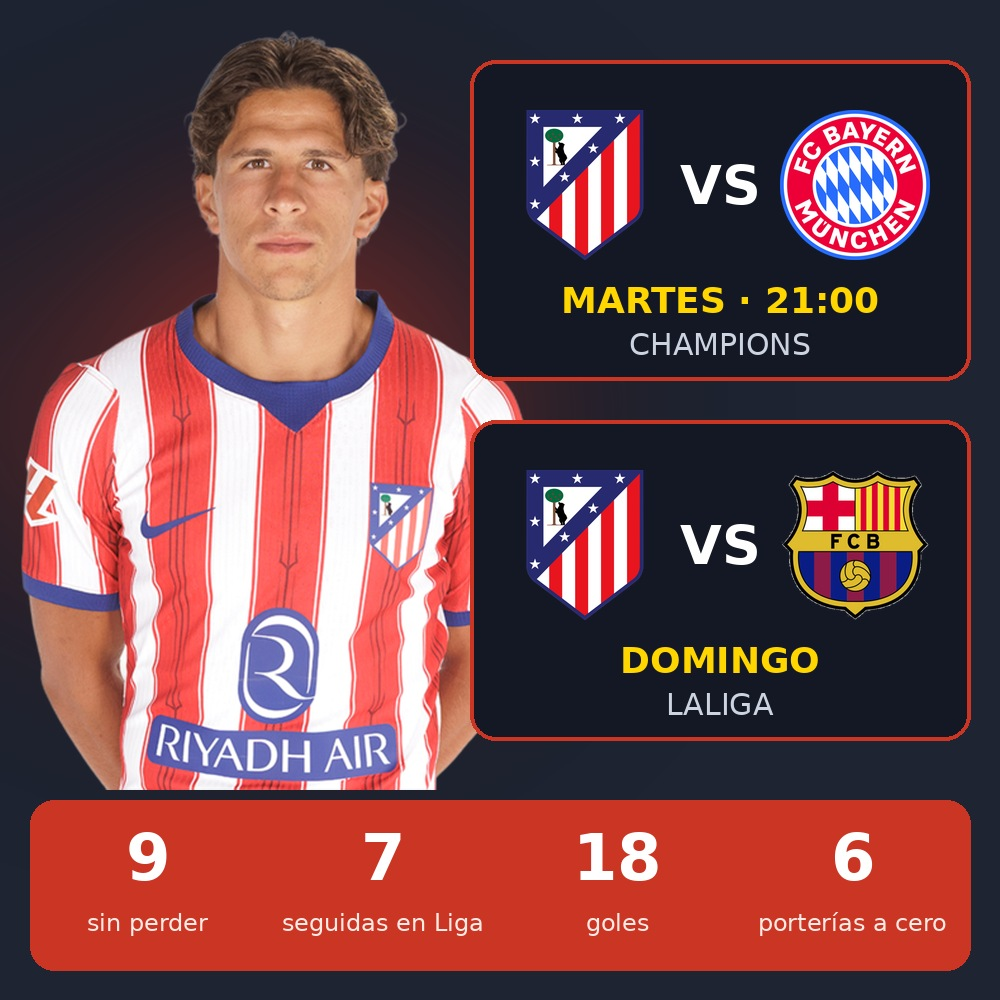
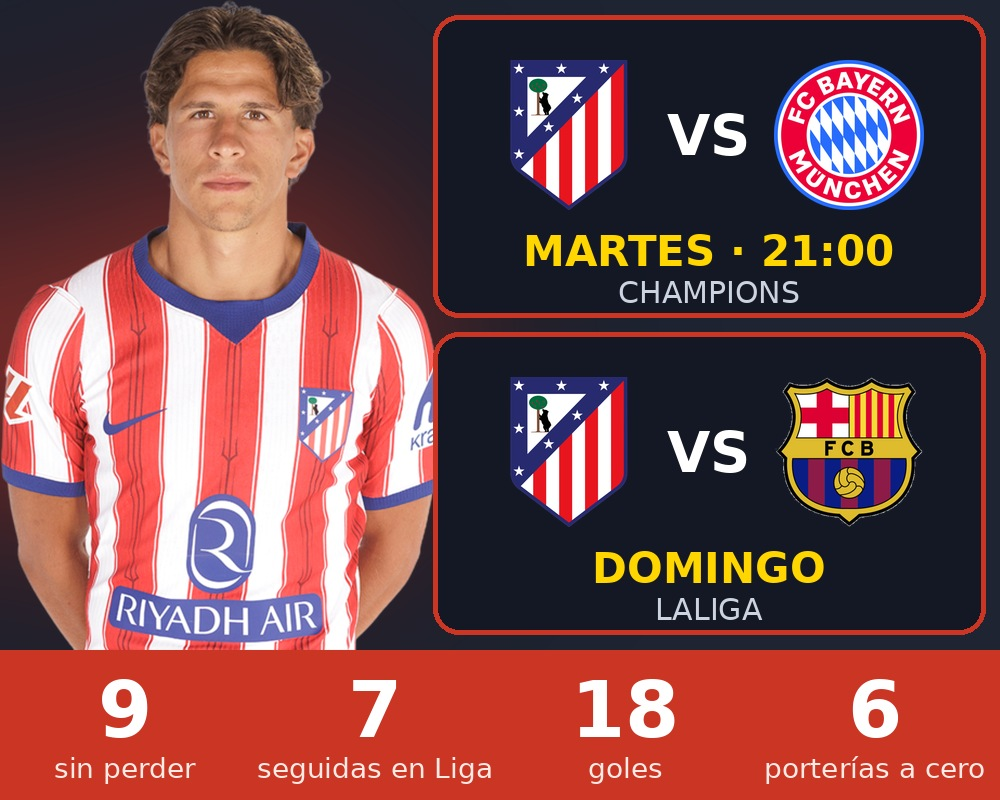
Vídeos: opción "grande" para que la imagen central salga a sangre y más grande
La usa el vídeo de la racha antes del Bayern, con la composición en formato
apaisado y sin el rótulo de encima.

Claude-Session: https://claude.ai/code/session_012a1WDV7vX57tvA9GzvRdCG

diff --git a/scripts/video_noticia.py b/scripts/video_noticia.py
@@ -365,9 +365,25 @@ def imagen_lista(datos):
     return img
 
 
+ANCHO_GRANDE = 940  # con el zoom final llega a ~1034 px: casi todo el ancho del vídeo
+
+
+def foto_grande(fuente_img):
+    """Foto a sangre, sin recuadro ni márgenes interiores, para que se vea lo más grande posible."""
+    alto = round(ANCHO_GRANDE * fuente_img.height / fuente_img.width)
+    foto = fuente_img.resize((ANCHO_GRANDE, alto), Image.LANCZOS)
+    mascara = Image.new("L", foto.size, 0)
+    ImageDraw.Draw(mascara).rounded_rectangle([0, 0, foto.width - 1, alto - 1], radius=30, fill=255)
+    img = Image.new("RGBA", (ANCHO_GRANDE + 2 * MARGEN, alto + 2 * MARGEN), (0, 0, 0, 0))
+    img.paste(foto, (MARGEN, MARGEN), mascara)
+    return img
+
+
 def imagen_foto(datos):
     """Foto de la noticia con esquinas redondeadas dentro del panel."""
     fuente_img = Image.open(datos["ruta"]).convert("RGB")
+    if datos.get("grande"):
+        return foto_grande(fuente_img)
     ancho = PANEL_ANCHO - 60
     # Entre apaisada 8:3 (las de categoría) y cuadrada; si es más alta, se recorta al centro,
     # salvo que el json permita más ("proporcion_max", por ejemplo 1.8 para carteles verticales).
